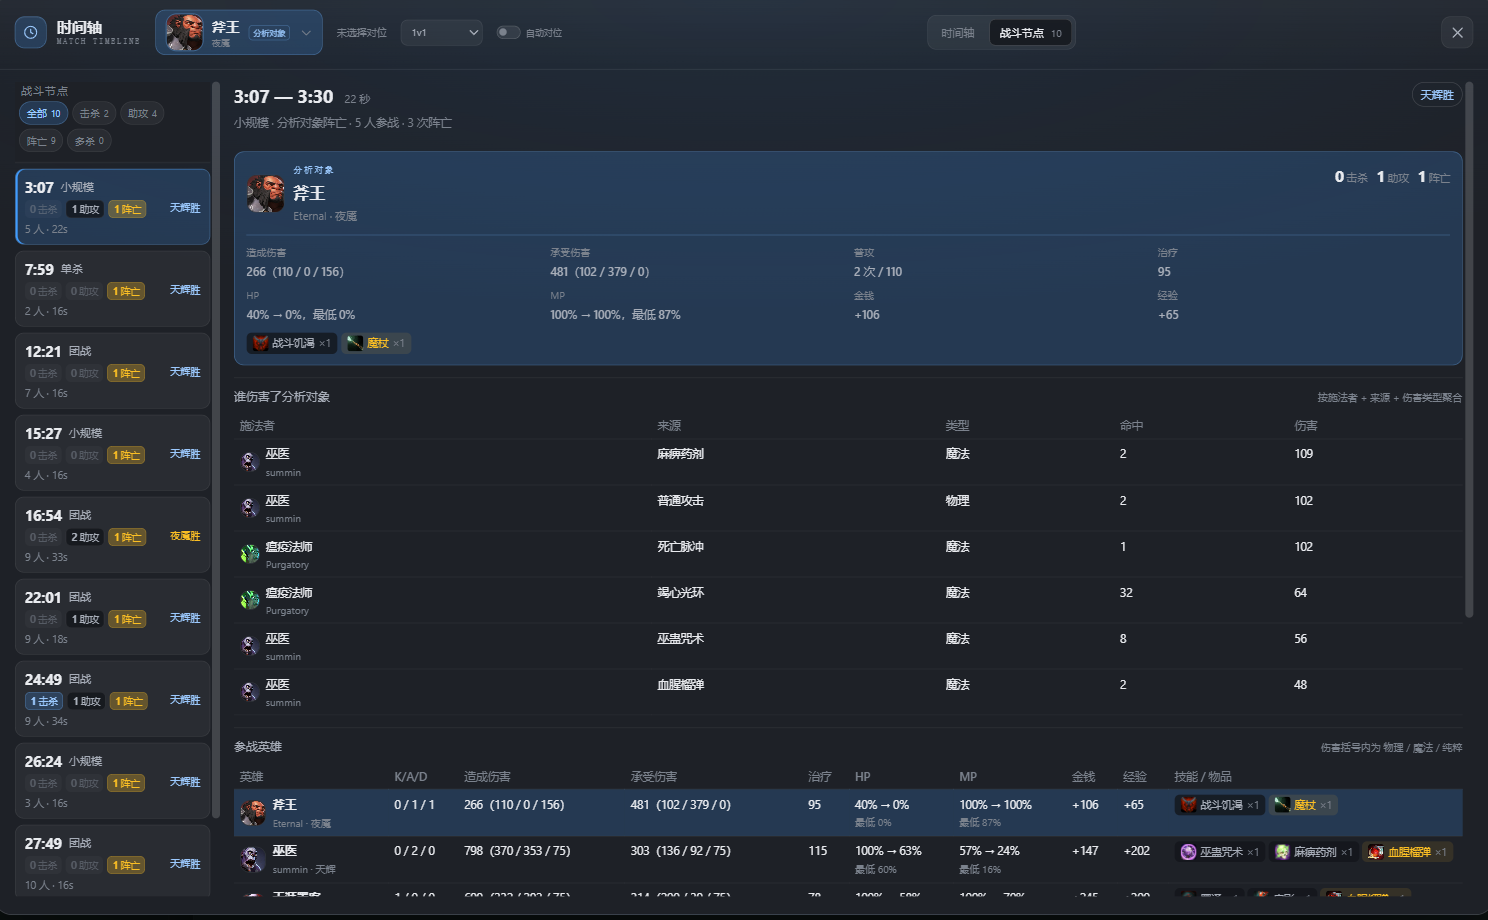
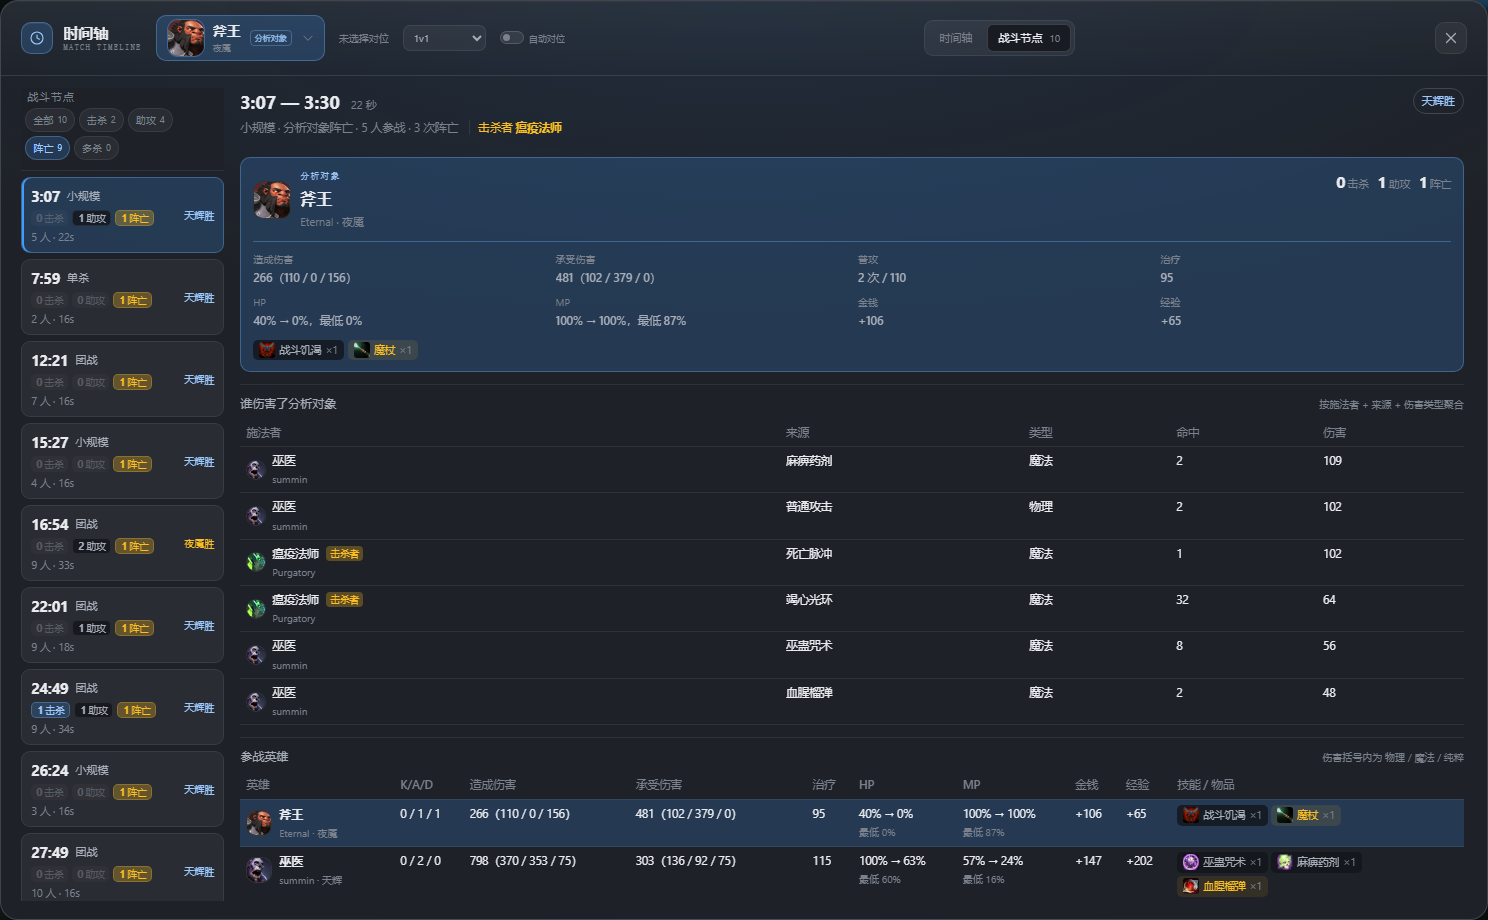
chore(release): publish desktop client with combat killer labels
Rebuild Portable and Setup with the new combat-node killer labels and About changelog; update download cache-busters and refresh combat node screenshots.

diff --git a/website/index.html b/website/index.html
@@ -272,7 +272,7 @@
                 <li><span>大小</span><strong>202 MB</strong></li>
                 <li><span>安装</span><strong>当前用户 · 无需管理员</strong></li>
               </ul>
-              <a class="pill pill-full" href="/downloads/TrueSight-Setup-0.1.0-x64.exe" download>
+              <a class="pill pill-full" href="/downloads/TrueSight-Setup-0.1.0-x64.exe?v=20261111" download>
                 下载安装版
                 <svg viewBox="0 0 24 24" aria-hidden="true"><path d="M12 4v12m0 0 5-5m-5 5-5-5M5 20h14" /></svg>
               </a>
@@ -289,7 +289,7 @@
                 <li><span>大小</span><strong>185 MB</strong></li>
                 <li><span>安装</span><strong>免安装 · 双击运行</strong></li>
               </ul>
-              <a class="pill pill-full pill-quiet" href="/downloads/TrueSight-Portable-0.1.0-x64.exe" download>
+              <a class="pill pill-full pill-quiet" href="/downloads/TrueSight-Portable-0.1.0-x64.exe?v=20261111" download>
                 下载便携版
                 <svg viewBox="0 0 24 24" aria-hidden="true"><path d="M12 4v12m0 0 5-5m-5 5-5-5M5 20h14" /></svg>
               </a>

diff --git a/ui/src/lib/about.ts b/ui/src/lib/about.ts
@@ -9,6 +9,14 @@ export interface ChangelogEntry {
 export const CHANGELOG: ChangelogEntry[] = [
   {
     version: '0.1.0',
+    date: '2026-11-11',
+    items: [
+      '战斗节点：分析对象阵亡时，节点标题显示击杀者，并在「谁伤害了分析对象」表内给击杀者行加标签。',
+      '击杀者为小兵、防御塔、野怪或召唤物等未计入承伤表时，表下会单独注明。'
+    ]
+  },
+  {
+    version: '0.1.0',
     date: '2026-11-10',
     items: [
       '英雄、技能与装备图标改为内置本地资源（约 44 MB），不再依赖第三方图片 CDN；「关于」页注明图片版权归 Valve Corporation 所有。',

diff --git a/memory/ai/state.md b/memory/ai/state.md
@@ -2,38 +2,56 @@
 
 > 由 `.githooks/pre-commit` 调用 `tools/memory/update.py` 自动生成；请勿手改。
 
-- 更新时间：2026-11-11T13:26:46+08:00
+- 更新时间：2026-11-11T17:29:13+08:00
 - 分支：main
 - 项目版本：0.1.0
 
 ## 本次提交（暂存）
 
 ```text
-M	memory/ai/context.md
+M	memory/ai/changelog.md
+M	memory/ai/decisions.md
+M	ui/src/lib/about.ts
+M	website/README.md
+M	website/assets/standard-combat-dock.png
+M	website/assets/standard-combat-light-dock.png
+M	website/index.html
 ```
 
 ### 变更统计
 
 ```text
-memory/ai/context.md | 2 +-
- 1 file changed, 1 insertion(+), 1 deletion(-)
+memory/ai/changelog.md                        |   2 ++
+ memory/ai/decisions.md                        |   5 +++++
+ ui/src/lib/about.ts                           |   8 ++++++++
+ website/README.md                             |   2 ++
+ website/assets/standard-combat-dock.png       | Bin 196908 -> 244277 bytes
+ website/assets/standard-combat-light-dock.png | Bin 197047 -> 248159 bytes
+ website/index.html                            |   4 ++--
+ 7 files changed, 19 insertions(+), 2 deletions(-)
 ```
 
 ## 工作区未提交
 
 ```text
-M  memory/ai/context.md
+M  memory/ai/changelog.md
+M  memory/ai/decisions.md
  M memory/ai/state.md
+M  ui/src/lib/about.ts
+M  website/README.md
+M  website/assets/standard-combat-dock.png
+M  website/assets/standard-combat-light-dock.png
+M  website/index.html
 ```
 
 ## 最近提交
 
 ```text
-b4b43e9 (HEAD -> main, origin/main, origin/HEAD) fix: track data/names/heroes.json source file
+cfe4e4b (HEAD -> main, origin/main, origin/HEAD) feat: show death killer in combat nodes
+d2aafd6 docs: note current local proxy ports
+b4b43e9 fix: track data/names/heroes.json source file
 3e9438d docs: update AI memory for README and website changes
 fbd3031 fix: add spacing above download buttons
-97cd54c docs: clarify portable self-extracting exe
-ac8f745 docs: rewrite README with English default and Chinese version
 ```
 
 ---

diff --git a/memory/ai/changelog.md b/memory/ai/changelog.md
@@ -9,6 +9,8 @@
 - 上游 `b4b43e9` 已把 `data/names/heroes.json` 纳入版本库（忽略规则收窄为 `/heroes.json`），本地生成内容与上游一致。
 - 开发环境高级分析恢复：使用本机 JDK 21（`JAVA_HOME`，PATH 默认仍是 Java 26）克隆并构建 sibling `../clarity`（53e60b1 / 5.0.1），生成 `lib/` 5 个 jar 与 `classes/MatchJsonMain.class`；用回放 8963173951 验证 `/api/parse`、缓存接口与时间轴 UI（schema 10，10265 条战斗事件）。
 - 战斗节点击杀者标识：分析对象阵亡时，节点标题显示「击杀者」，并在「谁伤害了分析对象」表内给击杀者行加标签；击杀者为非英雄单位/召唤物或未计入承伤表时，在表下注明。已用 8963173951 的阵亡节点验证（巫妖击杀）。
+- 官网客户端更新：重新构建 Portable/Setup（包含战斗节点击杀者标识与「关于」页更新日志），上传 R2 并部署 Worker；下载链接增加 `?v=20261111` 缓存参数，线上校验大小 185 / 202 MB。
+- 官网战斗节点截图更新：重截标准主题浅色/深色两套 1488×920，展示击杀者标题与表内标签。
 
 ## 2026-11-10
 

diff --git a/memory/ai/decisions.md b/memory/ai/decisions.md
@@ -1,5 +1,10 @@
 # 设计决策
 
+## 2026-11-11 官网客户端发布
+
+- 覆盖同名 R2 对象时，官网下载链接追加 `?v=YYYYMMDD` 绕过浏览器缓存；Worker 只按 pathname 匹配，R2 对象名保持不变。
+- 发布后校验本地 exe 大小与线上 `/downloads/*` 的 `Content-Length` 一致；界面有可见变化时同步重截战斗节点浅色/深色截图（1488×920）。
+
 ## 2026-11-10 官网视觉
 
 - 官网参考 Apple 产品页：大号编辑排版、全宽产品截图与克制留白；

diff --git a/website/README.md b/website/README.md
@@ -59,6 +59,8 @@ python -m http.server 4173 --directory website
 
 R2 bucket：`truesight-downloads`，Worker 绑定：`DOWNLOADS`。
 
+页面下载链接会附加 `?v=YYYYMMDD`（如 `?v=20261111`）用于绕过浏览器缓存；Worker 按 pathname 匹配，查询参数不影响 R2 对象名。
+
 上传新版本：
 
 ```powershell
